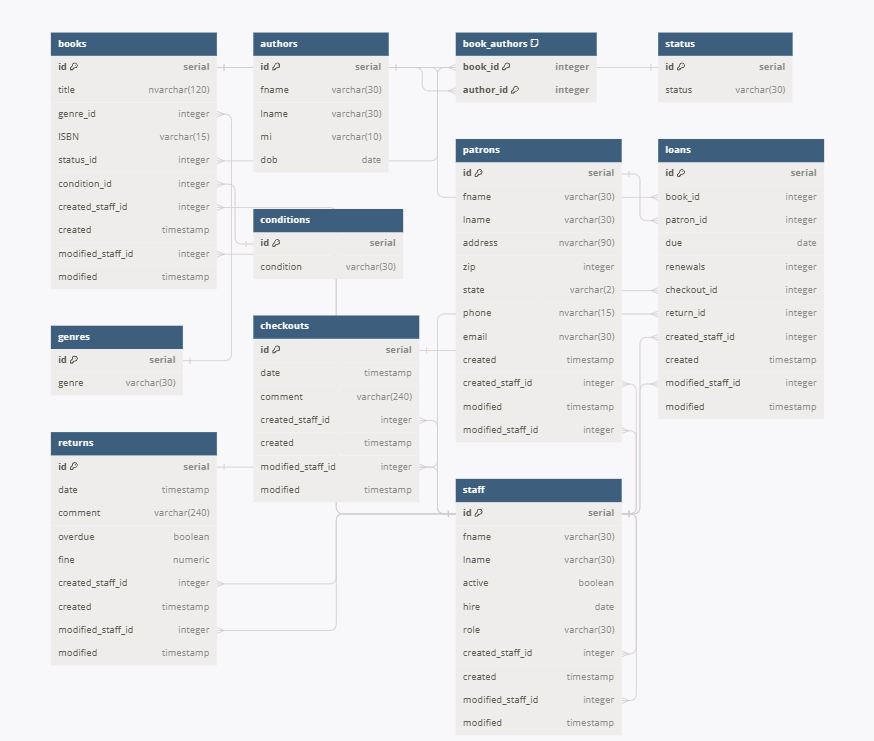
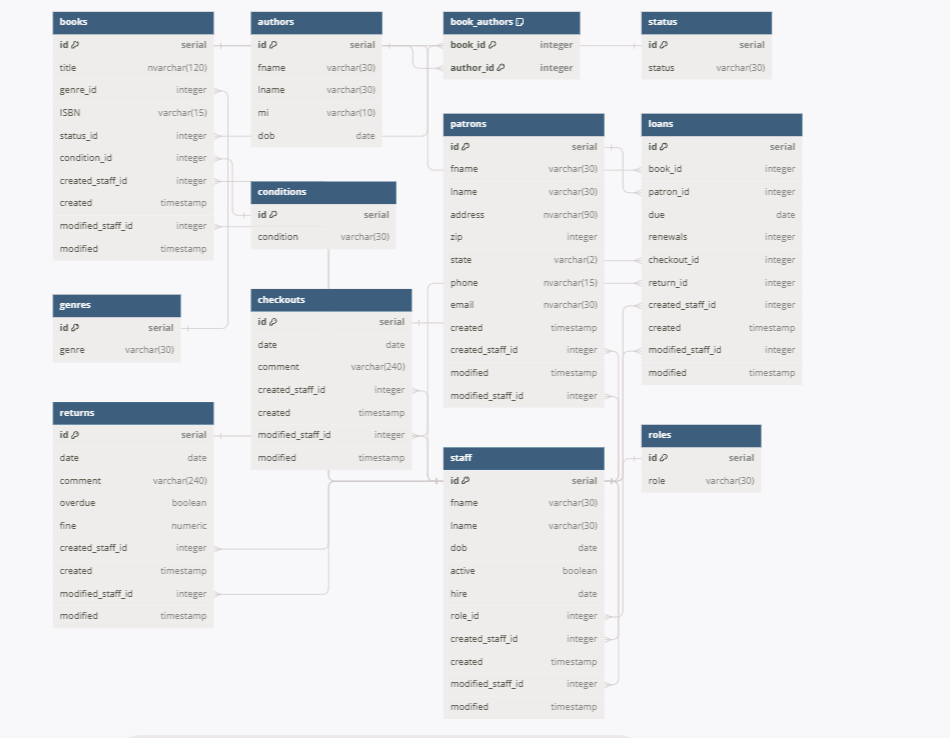
1. datatypes changes - change checkouts date datatype from timestamp to date - change returns date datatype from timestamp to date
2. staff table
- role field > role_id
- add dob field

3. make roles table

4. update erd, update db definition

5. add create statements for schema and tables to create folder
- only unique, null, primary, and foreign key contraints included
- returning to add check contraints

Changed region(s): [[0.0309, 0.0, 0.9577, 0.9973], [0.865, 0.3428, 0.9268, 0.561], [0.587, 0.748, 0.6178, 0.7791]]

diff --git a/design/readme.md b/design/readme.md
@@ -15,6 +15,7 @@ The schema comprises several interconnected tables that reflect real-world relat
 - `returns`: Tracks the return of books, including any overdue fines.
 - `checkouts`: Records when a book is checked out, including the staff member who facilitated it.
 - `staff`: Details about library staff, including their roles and the dates they were hired.
+- `roles`: Details the role titles for a given id.
 - `status` and `conditions`: Enumerate the possible states of books in terms of availability and physical condition.
 
 ## Relationships
@@ -28,7 +29,7 @@ The database utilizes:
 - `serial` IDs for uniqueness
 - `varchar` for text fields
 - `integer` for numerical values
-- `timestamp` for date and time records
+- `timestamp` or `date` for date and time records
 - `boolean` for true/false conditions
 - `numeric` for financial values like fines
 

diff --git a/design/db_definition.md b/design/db_definition.md
@@ -88,10 +88,15 @@
 - `id`: Staff unique identifier.
 - `fname`: Staff member's first name.
 - `lname`: Staff member's last name.
+- `dob`: Staff member's date of birth
 - `active`: Whether the staff member is currently employed.
 - `hire`: Date the staff member was hired.
-- `role`: Role of the staff member within the library.
+- `role_id`: Foreign key reference to `roles.id`.
 - `created_staff_id`: Foreign key reference to `staff.id`.
 - `created`: Timestamp of when the book entry was created.
 - `modified_staff_id`: Foreign key reference to `staff.id`.
 - `modified`: Timestamp of when the book entry was last modified.
+
+## Table: `roles`
+- `id`: Role unique identifier.
+- `role`: Role title.
